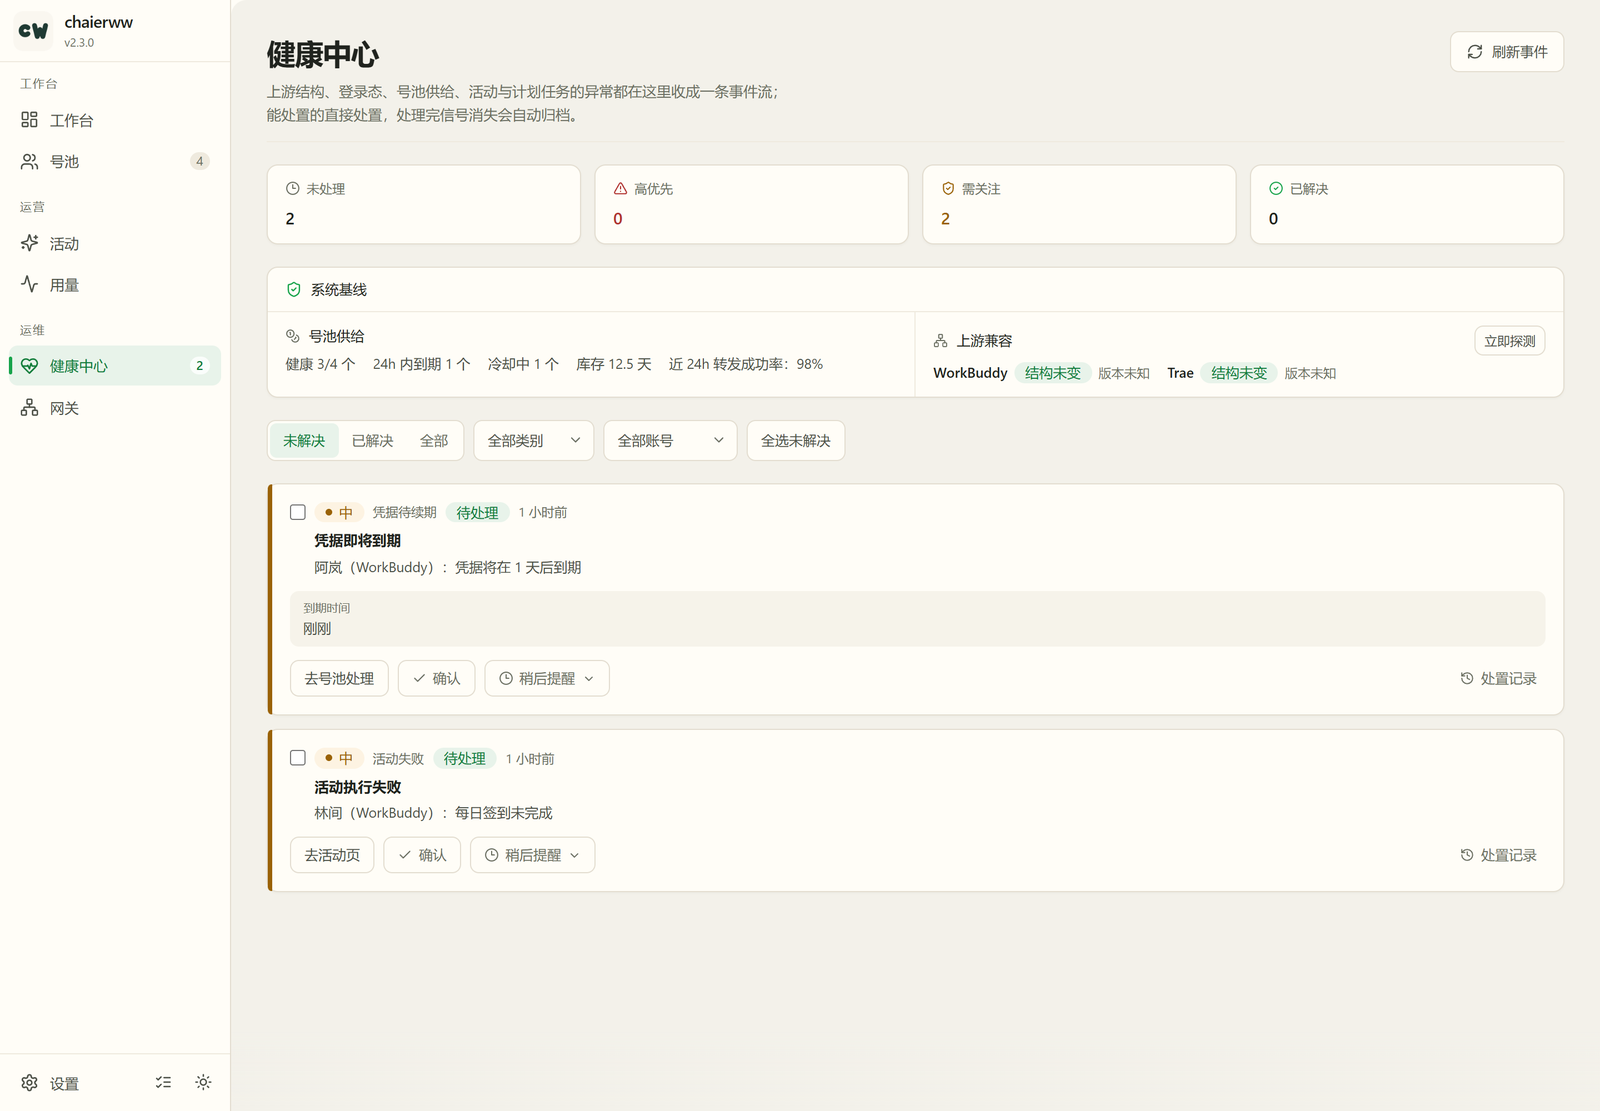
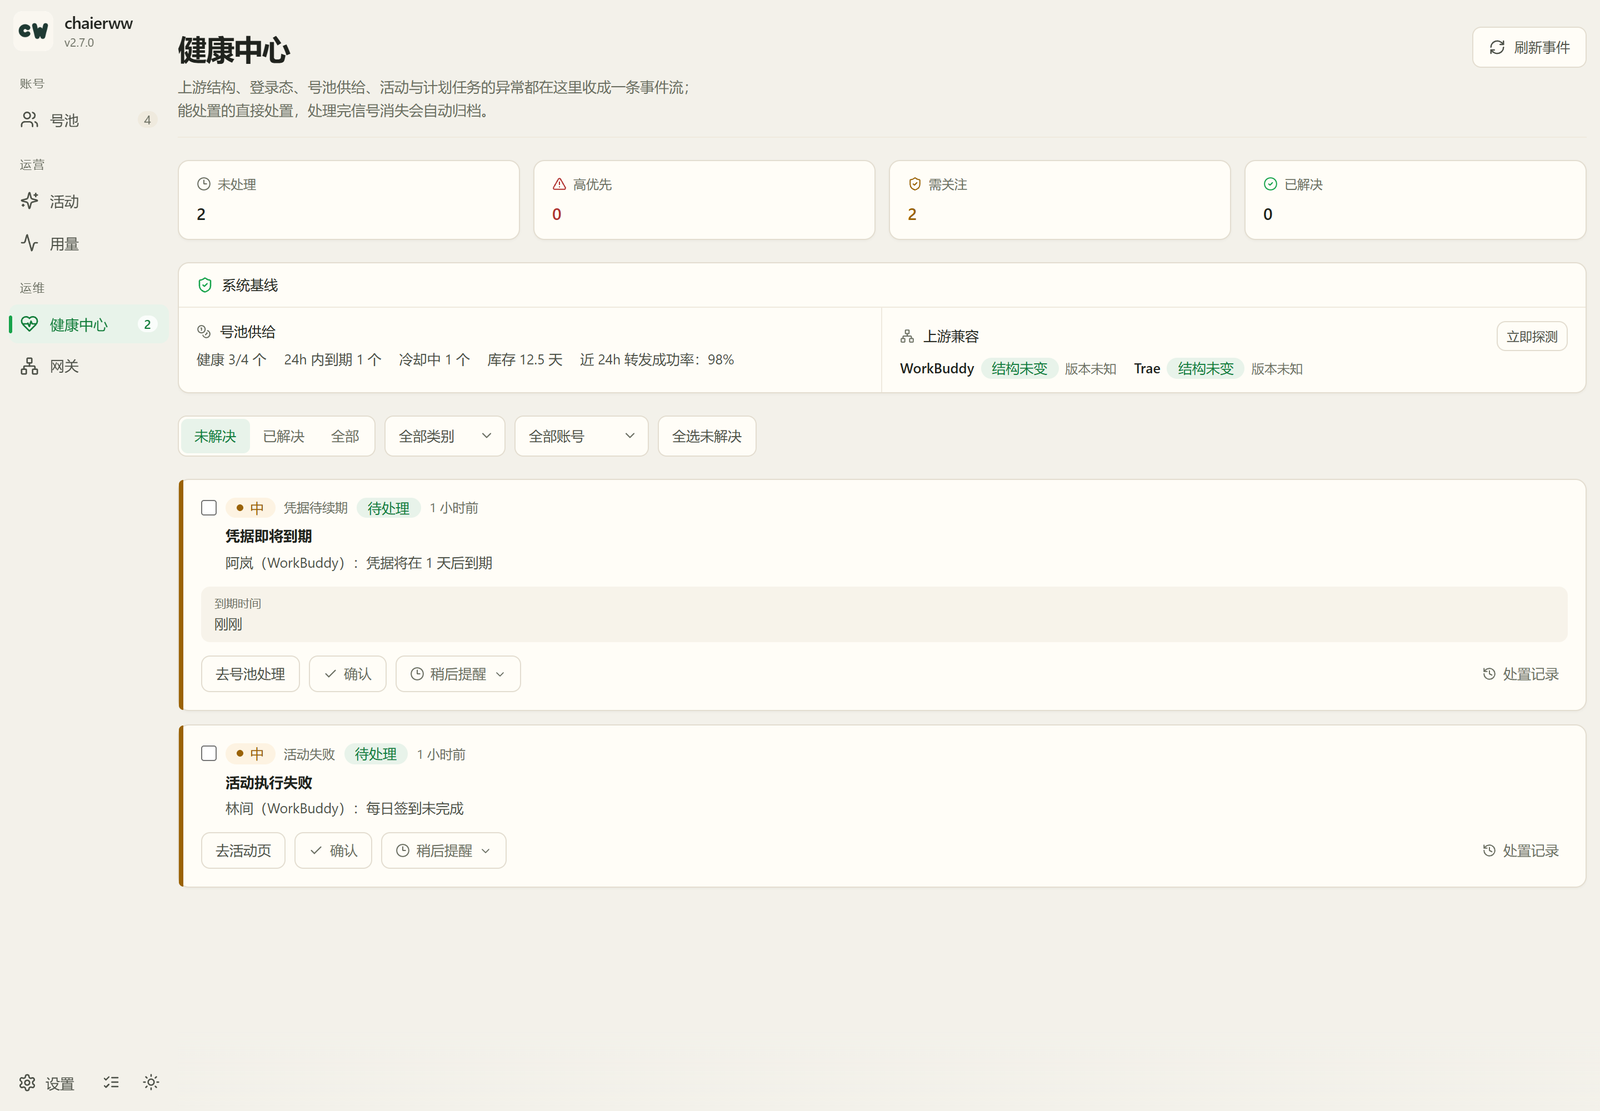
docs: 2.7.0 截图重拍与文档同步
- 用 2.7.0 演示数据重拍 README 浅色 12 张、深色 3 张截图与 demo.gif，版本角标同步到 2.7.0

- 删除已下线的工作台截图，截图脚本补 /api/health 演示数据

- README / README.en / QUICKSTART / docs/README 更新首页入口、4 格健康卡、一键诊断与纯成功静默提示

diff --git a/scripts/shots.py b/scripts/shots.py
@@ -458,6 +458,13 @@ def demo_fixtures() -> dict[str, dict[str, object]]:
         # /api/detect 返回单个客户端，/api/detection 返回 {clients}，两者不能共用同一份结构。
         "/api/detect": detection["clients"][0],
         "/api/detection": detection,
+        # 侧栏版本号的唯一来源；演示数据必须跟着当前版本走，否则截图会停在旧版本。
+        "/api/health": {
+            "status": "ok",
+            "version": "2.7.0",
+            "secrets": "keyring",
+            "dataDir": r"C:\Users\demo\AppData\Roaming\chaierww",
+        },
         "/api/preferences": {
             "migrateMemory": True,
             "migrateConnectors": True,

diff --git a/docs/QUICKSTART.md b/docs/QUICKSTART.md
@@ -85,7 +85,8 @@
 - **顶栏与命令面板**：桌面端顶栏的搜索按钮和 `Ctrl+K` 打开同一个面板，敲 `hc` 找号池、
   `sz` 找设置，也能直接搜账号；编辑 / 查看 / 帮助菜单里的动作都标了快捷键。
 - **快捷切号**：桌面端 `Ctrl+Alt+1..8` 直接切最近使用的 8 个号；换号成功后可点「切回上一个号」。
-- **一键今天的活**：活动页右上角一次跑完到期续期与全部可自动活动，完成后给出回执。
+- **一键今天的活**：活动页右上角一次跑完到期续期与全部可自动活动；全部成功静默更新，
+  只有跳过 / 失败 / 未知时才给回执。
 - **分组**：给账号打上「主力号 / 备用号」这类标签，号池按组筛选、批量设组，
   计划任务的账号范围也能按组一键勾选。
 - **活动**：官方活动目录写清规则与奖励；能自动的一键跑完，做不了的手动项写明怎么做，

diff --git a/docs/QUICKSTART.en.md b/docs/QUICKSTART.en.md
@@ -90,7 +90,8 @@ Seeing an account in the pool means step 2 is done.
 - **Quick switching**: on desktop, `Ctrl+Alt+1..8` jumps to the 8 most recently used accounts;
   after a successful switch you can switch straight back to the previous one.
 - **Run today's tasks**: the button at the top right of the activity page renews due credentials
-  and runs every automatable activity in one go, then shows a receipt.
+  and runs every automatable activity in one go. A fully successful run is silent; only skipped / failed /
+  unknown items produce a receipt.
 - **Groups**: tag accounts ("primary", "backup", …), filter the pool by group, assign in bulk,
   and pick a scheduled task's accounts by group with one click.
 - **Activities**: the official catalogue lists rules and rewards; automatable ones run in one

diff --git a/README.en.md b/README.en.md
@@ -126,8 +126,8 @@ Grouped by the four things you actually use, keeping only the hardest bullets in
   "re-check"
 - **Visible returns**: the usage page overview shows today / last 7 days totals, a mini trend and the top 3 accounts;
   it counts only rewards this tool performed and recorded — manual claims are not counted
-- **Run today's work in one click**: renewals that are due plus every automatable activity across all accounts in one go,
-  with a "done / needs manual" receipt
+- **Run today's work in one click**: renewals that are due plus every automatable activity across all accounts in one go;
+  a fully successful run updates silently and only skipped / failed / unknown items produce a receipt
 
 ### Gateway: lend your quota to other local AI tools
 

diff --git a/README.md b/README.md
@@ -116,7 +116,8 @@
   做不了的项按族写清「怎么做」，手动做完点「重新检测」当场回查
 - **收益看得见**：用量页总览给出今日 / 近 7 天合计、迷你趋势与 Top 3 账号；只算本工具
   代做并记录下来的奖励，手动领取不计
-- **一键今天的活**：到期续期 + 全部账号的可自动活动一次跑完，给出「已完成 / 需人工」回执
+- **一键今天的活**：到期续期 + 全部账号的可自动活动一次跑完；全部成功静默更新，
+  只有跳过 / 失败 / 未知时才给回执
 
 ### 网关：把额度借给本机其它 AI 工具
 
